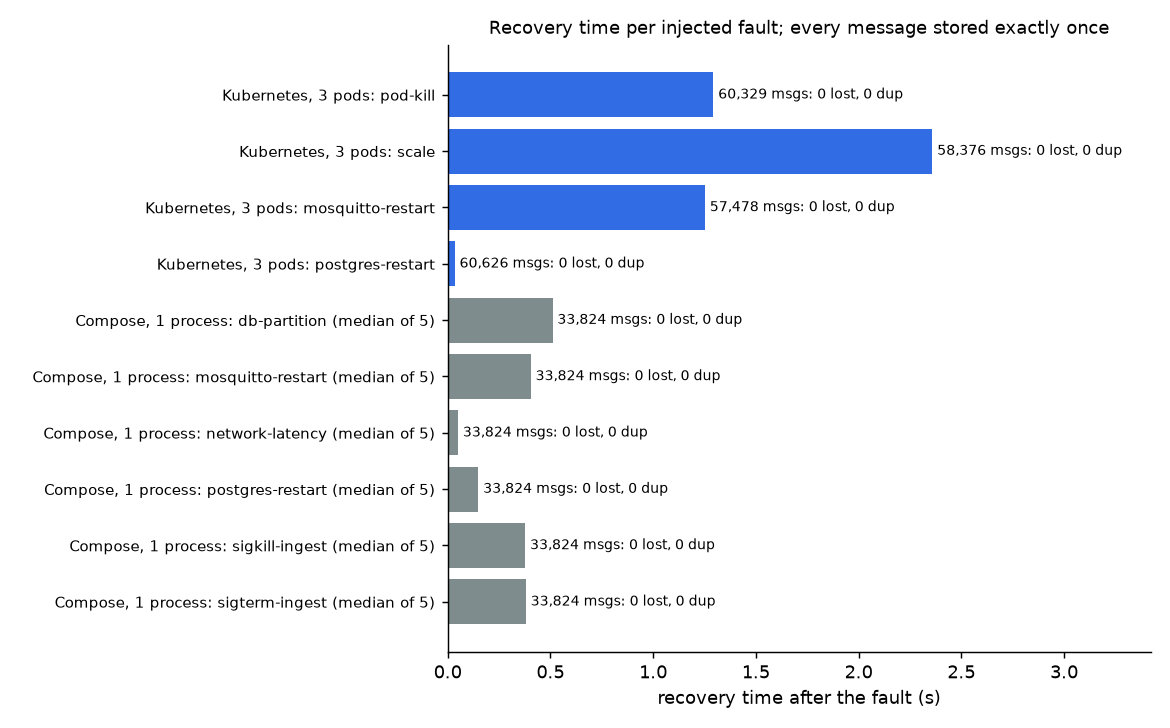
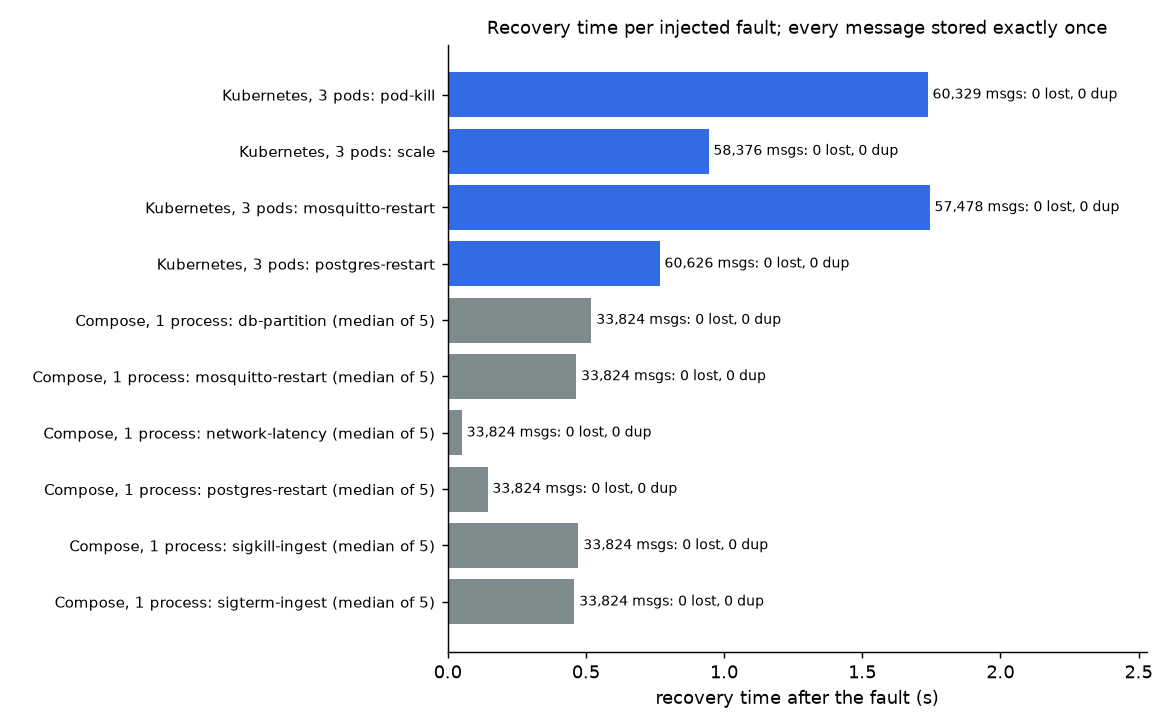
Generate the README and resilience results from the chaos reports after each suite run

diff --git a/test/chaos/globalSetup.ts b/test/chaos/globalSetup.ts
@@ -1,3 +1,4 @@
+import { spawnSync } from "node:child_process";
 import { ChaosEnv } from "../../src/chaos/runner.js";
 import { loadAllResults, writeSummary } from "../../src/chaos/report.js";
 import { SCENARIOS } from "../../src/chaos/scenarios.js";
@@ -10,6 +11,9 @@ export default async function setup(): Promise<() => Promise<void>> {
   await env.up();
   return async () => {
     log(`results table: ${writeSummary(loadAllResults(), SCENARIOS.map((s) => s.name))}`);
+    // Copy the new table into docs/RESILIENCE.md and redraw the figure (best effort).
+    const sync = spawnSync("python3", ["scripts/sync-results.py"], { stdio: "inherit" });
+    if (sync.status !== 0) log("could not sync docs/RESILIENCE.md with the results");
     if (process.env.CHAOS_KEEP === "1") log("CHAOS_KEEP=1: leaving the environment running");
     else await env.down();
   };

diff --git a/scripts/sync-results.py b/scripts/sync-results.py
@@ -1,0 +1,124 @@
+#!/usr/bin/env python3
+"""Copy the measured chaos results into the docs so they always match the committed reports.
+
+- README.md: the k3d results block (between the k8s-chaos markers) and the recovery range in the
+  "Results in detail" row are rebuilt from reports/k8s-chaos.json; the headline recovery bound of
+  the fault-injection suite is rebuilt from results/chaos/*.json.
+- docs/RESILIENCE.md: the tables between the chaos-summary markers are replaced by
+  results/chaos/summary.md.
+- docs/chaos-recovery.png is redrawn when matplotlib is installed.
+
+scripts/k8s-e2e.sh and the fault-injection suite run this after writing their reports.
+
+    python3 scripts/sync-results.py
+"""
+import glob
+import json
+import math
+import os
+import re
+import subprocess
+import sys
+
+ROOT = os.path.join(os.path.dirname(os.path.abspath(__file__)), "..")
+README = os.path.join(ROOT, "README.md")
+RESILIENCE = os.path.join(ROOT, "docs", "RESILIENCE.md")
+
+
+def read(path):
+    with open(path) as f:
+        return f.read()
+
+
+def write_if_changed(path, old, new):
+    if new != old:
+        with open(path, "w") as f:
+            f.write(new)
+        print(f"updated {os.path.relpath(path, ROOT)}")
+
+
+def replace_block(text, name, body):
+    pattern = re.compile(rf"(<!-- {name}:start[^>]*-->\n)(.*?)(<!-- {name}:end -->)", re.S)
+    if not pattern.search(text):
+        sys.exit(f"marker block {name} not found")
+    return pattern.sub(lambda m: m.group(1) + body + m.group(3), text, count=1)
+
+
+def seconds(ms):
+    s = ms / 1000
+    return f"{s:.2f} s" if s < 0.1 else f"{s:.1f} s"
+
+
+def k8s_block(r):
+    c = r["config"]
+    lines = [
+        f"Measured with `--{r.get('mode', 'quick')}` ({c['replicas']} replicas, {c['partitions']} partitions, "
+        f"{c['devices']} vehicles, {c['rate']} msg/s, seed {c['seed']}; the whole",
+        f"script took {r['wallClockS']} s including cluster creation, inside a 3 GB node limit):",
+        "",
+        "| Scenario | Sent | Distinct | Stored | Lost | Duplicated | Recovery |",
+        "| --- | ---: | ---: | ---: | ---: | ---: | ---: |",
+    ]
+    labels = {"pod-kill": None, "scale": None}
+    for s in r["scenarios"]:
+        name = f"`{s['scenario']}`"
+        if s["scenario"] == "pod-kill":
+            name += f" ({sum(a.startswith('killed') for a in s['actions'])} kills)"
+        elif s["scenario"] == "scale":
+            targets = [re.search(r"scaled to (\d+)", a).group(1) for a in s["actions"] if a.startswith("scaled to")]
+            name += " " + " → ".join([str(c["replicas"])] + targets)
+        lines.append(
+            f"| {name} | {s['sent']:,} | {s['sentDistinct']:,} | {s['stored']:,} | {s['lost']} | "
+            f"{s['duplicated']} | {seconds(s['recoveryMs'])} |")
+    t = r["totals"]
+    distinct = sum(s["sentDistinct"] for s in r["scenarios"])
+    lines.append(f"| **total** | {t['sent']:,} | {distinct:,} | {t['stored']:,} | {t['lost']} | {t['duplicated']} | |")
+    p = r.get("prometheus") or {}
+    lines += [
+        "",
+        "The message counts are fixed by the seed; recovery times vary from run to run.",
+        "\"Sent\" includes the simulator's deliberate duplicates. Prometheus had an `up` target for "
+        f"{p.get('targetsUp')} of {p.get('ingestPods')}",
+        f"ingest pods with all {len(p.get('alertRules', []))} alert rules loaded, and reported a p95 "
+        f"publish-to-commit latency of {p.get('p95PublishToCommitSeconds', 0):.1f} s",
+        "over the run (the chaos replay publishes faster than real time and pauses during faults).",
+        "",
+    ]
+    return "\n".join(lines)
+
+
+def main():
+    readme = read(README)
+    new = readme
+    k8s_path = os.path.join(ROOT, "reports", "k8s-chaos.json")
+    if os.path.exists(k8s_path):
+        r = json.loads(read(k8s_path))
+        new = replace_block(new, "k8s-chaos", k8s_block(r))
+        rec = [s["recoveryMs"] for s in r["scenarios"]]
+        rng = f"recovery {seconds(min(rec)).removesuffix(' s')}–{seconds(max(rec))} per scenario"
+        new = re.sub(r"recovery [0-9.]+–[0-9.]+ s per scenario", rng, new, count=1)
+    runs = [run for f in sorted(glob.glob(os.path.join(ROOT, "results", "chaos", "*.json")))
+            for run in json.loads(read(f))]
+    if runs:
+        bound = math.ceil(max(run["recoveryMs"] for run in runs) / 100) / 10
+        new = re.sub(r"recovery within [0-9.]+ s", f"recovery within {bound:.1f} s", new, count=1)
+    write_if_changed(README, readme, new)
+
+    summary_path = os.path.join(ROOT, "results", "chaos", "summary.md")
+    if os.path.exists(summary_path):
+        resilience = read(RESILIENCE)
+        summary = read(summary_path).rstrip("\n") + "\n"
+        if "| – |" in summary:
+            summary += '\n"–" means the catch-up point was not captured by the 50 ms sampler in that run.\n'
+        write_if_changed(RESILIENCE, resilience, replace_block(resilience, "chaos-summary", summary))
+
+    try:
+        import matplotlib  # noqa: F401
+    except ImportError:
+        print("matplotlib not installed; docs/chaos-recovery.png not redrawn")
+        return
+    subprocess.run([sys.executable, os.path.join(ROOT, "scripts", "plot-results.py")], check=True)
+
+
+if __name__ == "__main__":
+    main()

diff --git a/docs/RESILIENCE.md b/docs/RESILIENCE.md
@@ -87,68 +87,68 @@ regenerates on every run.
 **All 30 runs passed: 0 lost messages, 0 duplicate rows, and all 24 trips per seed identical to
 the fault-free run, together with their idle segments and late flags.**
 
+<!-- chaos-summary:start (generated by scripts/sync-results.py from results/chaos/summary.md) -->
 | Scenario | Runs | Passed | Lost | Duplicate rows | Trips identical | Median recovery s | Max recovery s | Median catch-up s | Max peak queue |
 | --- | ---: | ---: | ---: | ---: | --- | ---: | ---: | ---: | ---: |
-| sigkill-ingest | 5 | 5 | 0 | 0 | all | 0.38 | 0.43 | 0.54 | 2000 |
-| sigterm-ingest | 5 | 5 | 0 | 0 | all | 0.38 | 0.41 | 0.43 | 2000 |
-| mosquitto-restart | 5 | 5 | 0 | 0 | all | 0.40 | 0.50 | 0.40 | 1378 |
-| postgres-restart | 5 | 5 | 0 | 0 | all | 0.15 | 0.15 | 0.61 | 2000 |
-| network-latency | 5 | 5 | 0 | 0 | all | 0.05 | 0.07 | 0.29 | 2000 |
-| db-partition | 5 | 5 | 0 | 0 | all | 0.51 | 0.54 | 0.72 | 2036 |
+| sigkill-ingest | 5 | 5 | 0 | 0 | all | 0.47 | 0.52 | 0.68 | 2000 |
+| sigterm-ingest | 5 | 5 | 0 | 0 | all | 0.46 | 0.49 | 0.51 | 2000 |
+| mosquitto-restart | 5 | 5 | 0 | 0 | all | 0.47 | 0.51 | 0.47 | 1404 |
+| postgres-restart | 5 | 5 | 0 | 0 | all | 0.14 | 0.15 | 0.70 | 2000 |
+| network-latency | 5 | 5 | 0 | 0 | all | 0.05 | 0.07 | 0.32 | 2000 |
+| db-partition | 5 | 5 | 0 | 0 | all | 0.52 | 0.54 | 0.75 | 2032 |
 
 | Scenario | Seed | Messages delivered | Unique | Lost | Duplicate rows | Trips (match fault-free) | Downtime s | Recovery s | Catch-up s | Peak queue | Paused | Failed batches | Result |
 | --- | ---: | ---: | ---: | ---: | ---: | --- | ---: | ---: | ---: | ---: | --- | ---: | --- |
-| sigkill-ingest | 1 | 7338 | 7007 | 0 | 0 | 24 (yes) | 2.28 | 0.39 | 0.54 | 2000 / 2000 | yes | 0 | pass |
-| sigkill-ingest | 2 | 7128 | 6774 | 0 | 0 | 24 (yes) | 2.29 | 0.37 | 0.52 | 2000 / 2000 | yes | 0 | pass |
-| sigkill-ingest | 3 | 7284 | 6941 | 0 | 0 | 24 (yes) | 2.26 | 0.36 | 0.51 | 2000 / 2000 | yes | 0 | pass |
-| sigkill-ingest | 4 | 7440 | 7103 | 0 | 0 | 24 (yes) | 2.26 | 0.38 | 0.58 | 2000 / 2000 | yes | 0 | pass |
-| sigkill-ingest | 5 | 6313 | 5999 | 0 | 0 | 24 (yes) | 2.27 | 0.43 | 0.59 | 2000 / 2000 | yes | 0 | pass |
-| sigterm-ingest | 1 | 7338 | 7007 | 0 | 0 | 24 (yes) | 1.38 | 0.37 | 0.42 | 1568 / 2000 | no | 0 | pass |
-| sigterm-ingest | 2 | 7128 | 6774 | 0 | 0 | 24 (yes) | 1.41 | 0.38 | 0.43 | 2000 / 2000 | yes | 0 | pass |
-| sigterm-ingest | 3 | 7284 | 6941 | 0 | 0 | 24 (yes) | 1.44 | 0.37 | 0.42 | 2000 / 2000 | yes | 0 | pass |
-| sigterm-ingest | 4 | 7440 | 7103 | 0 | 0 | 24 (yes) | 1.44 | 0.38 | 0.43 | 2000 / 2000 | yes | 0 | pass |
-| sigterm-ingest | 5 | 6313 | 5999 | 0 | 0 | 24 (yes) | 1.39 | 0.41 | 0.46 | 2000 / 2000 | yes | 0 | pass |
-| mosquitto-restart | 1 | 7338 | 7007 | 0 | 0 | 24 (yes) | 0.67 | 0.44 | 0.44 | 1378 / 2000 | no | 0 | pass |
-| mosquitto-restart | 2 | 7128 | 6774 | 0 | 0 | 24 (yes) | 0.68 | 0.38 | 0.38 | 832 / 2000 | no | 0 | pass |
-| mosquitto-restart | 3 | 7284 | 6941 | 0 | 0 | 24 (yes) | 0.66 | 0.40 | 0.40 | 1358 / 2000 | no | 0 | pass |
-| mosquitto-restart | 4 | 7440 | 7103 | 0 | 0 | 24 (yes) | 0.66 | 0.50 | 0.50 | 1345 / 2000 | no | 0 | pass |
-| mosquitto-restart | 5 | 6313 | 5999 | 0 | 0 | 24 (yes) | 0.68 | 0.40 | 0.40 | 1353 / 2000 | no | 0 | pass |
-| postgres-restart | 1 | 7338 | 7007 | 0 | 0 | 24 (yes) | 2.11 | 0.14 | 1.27 | 2000 / 2000 | yes | 4 | pass |
-| postgres-restart | 2 | 7128 | 6774 | 0 | 0 | 24 (yes) | 1.18 | 0.13 | 0.54 | 2000 / 2000 | yes | 3 | pass |
-| postgres-restart | 3 | 7284 | 6941 | 0 | 0 | 24 (yes) | 1.13 | 0.15 | 0.61 | 2000 / 2000 | yes | 3 | pass |
-| postgres-restart | 4 | 7440 | 7103 | 0 | 0 | 24 (yes) | 1.20 | 0.15 | 0.56 | 2000 / 2000 | yes | 3 | pass |
-| postgres-restart | 5 | 6313 | 5999 | 0 | 0 | 24 (yes) | 1.14 | 0.15 | 0.61 | 2000 / 2000 | yes | 3 | pass |
-| network-latency | 1 | 7338 | 7007 | 0 | 0 | 24 (yes) | 5.02 | 0.04 | 0.29 | 2000 / 2000 | yes | 0 | pass |
-| network-latency | 2 | 7128 | 6774 | 0 | 0 | 24 (yes) | 5.01 | 0.07 | 0.28 | 2000 / 2000 | yes | 0 | pass |
-| network-latency | 3 | 7284 | 6941 | 0 | 0 | 24 (yes) | 5.01 | 0.04 | 0.30 | 2000 / 2000 | yes | 0 | pass |
-| network-latency | 4 | 7440 | 7103 | 0 | 0 | 24 (yes) | 5.01 | 0.05 | 0.30 | 2000 / 2000 | yes | 0 | pass |
-| network-latency | 5 | 6313 | 5999 | 0 | 0 | 24 (yes) | 5.01 | 0.07 | – | 2000 / 2000 | yes | 0 | pass |
-| db-partition | 1 | 7338 | 7007 | 0 | 0 | 24 (yes) | 6.00 | 0.52 | 0.78 | 2021 / 2000 | yes | 2 | pass |
-| db-partition | 2 | 7128 | 6774 | 0 | 0 | 24 (yes) | 6.00 | 0.51 | 0.71 | 2021 / 2000 | yes | 2 | pass |
-| db-partition | 3 | 7284 | 6941 | 0 | 0 | 24 (yes) | 6.00 | 0.54 | 0.74 | 2030 / 2000 | yes | 2 | pass |
-| db-partition | 4 | 7440 | 7103 | 0 | 0 | 24 (yes) | 6.01 | 0.51 | – | 2031 / 2000 | yes | 2 | pass |
-| db-partition | 5 | 6313 | 5999 | 0 | 0 | 24 (yes) | 6.01 | 0.47 | 0.72 | 2036 / 2000 | yes | 2 | pass |
-
-"–" means the catch-up point was not captured by the 50 ms sampler in that run.
+| sigkill-ingest | 1 | 7338 | 7007 | 0 | 0 | 24 (yes) | 2.21 | 0.49 | 0.74 | 2000 / 2000 | yes | 0 | pass |
+| sigkill-ingest | 2 | 7128 | 6774 | 0 | 0 | 24 (yes) | 2.22 | 0.52 | 0.83 | 2000 / 2000 | yes | 0 | pass |
+| sigkill-ingest | 3 | 7284 | 6941 | 0 | 0 | 24 (yes) | 2.22 | 0.46 | 0.67 | 2000 / 2000 | yes | 0 | pass |
+| sigkill-ingest | 4 | 7440 | 7103 | 0 | 0 | 24 (yes) | 2.17 | 0.47 | 0.68 | 2000 / 2000 | yes | 0 | pass |
+| sigkill-ingest | 5 | 6313 | 5999 | 0 | 0 | 24 (yes) | 2.21 | 0.40 | 0.56 | 2000 / 2000 | yes | 0 | pass |
+| sigterm-ingest | 1 | 7338 | 7007 | 0 | 0 | 24 (yes) | 1.33 | 0.49 | 0.54 | 2000 / 2000 | yes | 0 | pass |
+| sigterm-ingest | 2 | 7128 | 6774 | 0 | 0 | 24 (yes) | 1.34 | 0.46 | 0.51 | 2000 / 2000 | yes | 0 | pass |
+| sigterm-ingest | 3 | 7284 | 6941 | 0 | 0 | 24 (yes) | 1.34 | 0.49 | 0.54 | 1657 / 2000 | no | 0 | pass |
+| sigterm-ingest | 4 | 7440 | 7103 | 0 | 0 | 24 (yes) | 1.45 | 0.42 | 0.47 | 2000 / 2000 | yes | 0 | pass |
+| sigterm-ingest | 5 | 6313 | 5999 | 0 | 0 | 24 (yes) | 1.43 | 0.40 | 0.45 | 2000 / 2000 | yes | 0 | pass |
+| mosquitto-restart | 1 | 7338 | 7007 | 0 | 0 | 24 (yes) | 0.64 | 0.47 | 0.47 | 1371 / 2000 | no | 0 | pass |
+| mosquitto-restart | 2 | 7128 | 6774 | 0 | 0 | 24 (yes) | 0.73 | 0.37 | 0.37 | 1404 / 2000 | no | 0 | pass |
+| mosquitto-restart | 3 | 7284 | 6941 | 0 | 0 | 24 (yes) | 0.63 | 0.47 | 0.47 | 1331 / 2000 | no | 0 | pass |
+| mosquitto-restart | 4 | 7440 | 7103 | 0 | 0 | 24 (yes) | 0.63 | 0.51 | 0.51 | 1344 / 2000 | no | 0 | pass |
+| mosquitto-restart | 5 | 6313 | 5999 | 0 | 0 | 24 (yes) | 0.65 | 0.42 | 0.42 | 1353 / 2000 | no | 0 | pass |
+| postgres-restart | 1 | 7338 | 7007 | 0 | 0 | 24 (yes) | 2.11 | 0.14 | 1.35 | 2000 / 2000 | yes | 4 | pass |
+| postgres-restart | 2 | 7128 | 6774 | 0 | 0 | 24 (yes) | 1.09 | 0.14 | 0.70 | 2000 / 2000 | yes | 3 | pass |
+| postgres-restart | 3 | 7284 | 6941 | 0 | 0 | 24 (yes) | 1.08 | 0.15 | 0.71 | 2000 / 2000 | yes | 3 | pass |
+| postgres-restart | 4 | 7440 | 7103 | 0 | 0 | 24 (yes) | 1.13 | 0.14 | 0.60 | 2000 / 2000 | yes | 3 | pass |
+| postgres-restart | 5 | 6313 | 5999 | 0 | 0 | 24 (yes) | 1.09 | 0.13 | 0.70 | 2000 / 2000 | yes | 3 | pass |
+| network-latency | 1 | 7338 | 7007 | 0 | 0 | 24 (yes) | 5.01 | 0.07 | 0.32 | 2000 / 2000 | yes | 0 | pass |
+| network-latency | 2 | 7128 | 6774 | 0 | 0 | 24 (yes) | 5.02 | 0.05 | 0.36 | 2000 / 2000 | yes | 0 | pass |
+| network-latency | 3 | 7284 | 6941 | 0 | 0 | 24 (yes) | 5.00 | 0.07 | 0.32 | 2000 / 2000 | yes | 0 | pass |
+| network-latency | 4 | 7440 | 7103 | 0 | 0 | 24 (yes) | 5.00 | 0.03 | 0.29 | 2000 / 2000 | yes | 0 | pass |
+| network-latency | 5 | 6313 | 5999 | 0 | 0 | 24 (yes) | 5.00 | 0.01 | 0.27 | 2000 / 2000 | yes | 0 | pass |
+| db-partition | 1 | 7338 | 7007 | 0 | 0 | 24 (yes) | 6.01 | 0.52 | 0.78 | 2021 / 2000 | yes | 2 | pass |
+| db-partition | 2 | 7128 | 6774 | 0 | 0 | 24 (yes) | 6.01 | 0.52 | 0.78 | 2028 / 2000 | yes | 2 | pass |
+| db-partition | 3 | 7284 | 6941 | 0 | 0 | 24 (yes) | 6.01 | 0.54 | 0.74 | 2027 / 2000 | yes | 2 | pass |
+| db-partition | 4 | 7440 | 7103 | 0 | 0 | 24 (yes) | 6.00 | 0.53 | 0.73 | 2021 / 2000 | yes | 2 | pass |
+| db-partition | 5 | 6313 | 5999 | 0 | 0 | 24 (yes) | 6.01 | 0.49 | 0.75 | 2032 / 2000 | yes | 2 | pass |
+<!-- chaos-summary:end -->
 
 ## Reading the results
 
-- **SIGKILL.** At the kill, 8–33 messages were queued in memory and a batch was usually in flight.
+- **SIGKILL.** At the kill, a few dozen messages at most were queued in memory and a batch was usually in flight.
   None of them had been acknowledged, so the broker redelivered them to the restarted service.
-  About 250–290 redelivered or simulator-duplicated copies per run were discarded by the primary
+  A few hundred redelivered or simulator-duplicated copies per run were discarded by the primary
   key. The restarted service rebuilt every reorder buffer from the stored points and the persisted
   cursor, so stragglers that arrived after the restart were slotted in exactly as in the
-  fault-free run. Recovery (0.36–0.43 s after `docker start` returned) is the time the service
+  fault-free run. Recovery (measured from when `docker start` returned; see the table) is the time the service
   needed to start: connect, migrate, replay devices and subscribe. The backlog then fills the
   2,000-message queue and the consumer pauses until it drains.
 - **SIGTERM.** Every graceful stop exited with status 0 after committing and acknowledging its
   queue. The reorder buffers are deliberately not flushed on shutdown, so the result is the same
   as never stopping.
-- **Mosquitto restart.** The broker was unavailable for about 0.65–0.7 s. Its persistence file kept the
+- **Mosquitto restart.** The broker was unavailable for under a second (the downtime column). Its persistence file kept the
   service's session and queued messages. The publisher resent its unacknowledged publishes, and
   the service reconnected with backoff and resumed its session. No batch failed.
-- **PostgreSQL restart.** The database refused connections for 1.1–2.1 s. The service saw 3–4
-  failed batches, rebuilt the 8 affected devices from the database before each retry, and kept
+- **PostgreSQL restart.** The database refused connections for one to two seconds. The service saw a handful of
+  failed batches (the failed-batches column), rebuilt the 8 affected devices from the database before each retry, and kept
   the retry backoff while new messages arrived. An earlier version of the suite caught two bugs
   here. First, an error emitted by a checked-out pg client during the shutdown crashed the
   process. Second, batch triggers queued during a slow failing transaction ran back to back,
@@ -156,8 +156,8 @@ the fault-free run, together with their idle segments and late flags.**
 - **Network latency.** With 250 ± 100 ms on the database link, batch commits slowed down enough
   to fill the queue. The consumer paused and resumed, and nothing failed.
 - **Database partition.** With bytes silently dropped for 6 s, queries hit the 2 s timeout and
-  hung connections were destroyed. Recovery after the heal (about 0.5 s) is dominated by the retry
-  backoff, which had grown to 2 s. The queue peaks slightly above its bound (2,021–2,036) because
+  hung connections were destroyed. Recovery after the heal (about half a second) is dominated by the retry
+  backoff, which had grown to 2 s. The queue peaks slightly above its bound of 2,000 because
   MQTT messages already parsed from the current TCP read are still handed over after the pause
   begins.
 

diff --git a/README.md b/README.md
@@ -65,7 +65,7 @@ Measured numbers are in [PERFORMANCE.md](PERFORMANCE.md) (throughput, latency, a
 
 | Check (committed test or script) | Faults | Messages (distinct) | Lost | Duplicated | Result |
 | --- | --- | ---: | ---: | ---: | --- |
-| `scripts/k8s-e2e.sh --quick` (k3d, 3 replicas, 16 partitions, 200 devices, [reports/k8s-chaos.json](reports/k8s-chaos.json)) | pod kill every 4 s, scale 3→1→3→2, Mosquitto restart, Postgres restart | 236,809 | 0 | 0 | recovery 0.03–2.4 s per scenario; Prometheus scraped 3/3 pods |
+| `scripts/k8s-e2e.sh --quick` (k3d, 3 replicas, 16 partitions, 200 devices, [reports/k8s-chaos.json](reports/k8s-chaos.json)) | pod kill every 4 s, scale 3→1→3→2, Mosquitto restart, Postgres restart | 236,809 | 0 | 0 | recovery 0.8–1.7 s per scenario; Prometheus scraped 3/3 pods |
 | `test/cluster.integration.test.ts` (5 in-process pods, 8 partitions, [results/cluster-chaos.json](results/cluster-chaos.json)) | scale 1→3, kill + restart, kill without restart, graceful stop, scale 1→2 | 13,463 | 0 | 0 | trips identical to one uninterrupted ingestor; every handoff < 1 s |
 | `npm run test:chaos` (Docker Compose + Toxiproxy, [docs/RESILIENCE.md](docs/RESILIENCE.md)) | SIGKILL, SIGTERM, broker restart, DB restart, latency, DB partition × 5 seeds | ~7,000 per run | 0 | 0 | 30/30 runs pass, trips identical to a fault-free run |
 | `deploy/prometheus/rules.test.yaml` (promtool) | p95 latency, consumer lag, error ratio, unowned partitions, target down | – | – | – | every alert fires and stays quiet as specified |
@@ -124,7 +124,7 @@ Source layout:
 | `deploy/prometheus/`, `deploy/grafana/` | Alert rules with promtool tests, Grafana dashboard |
 | `scripts/k8s-e2e.sh` | k3d chaos suite |
 | `src/chaos/` | Fault-injection harness: Docker and Toxiproxy control, scenarios, runner, invariant checker, results report |
-| `scripts/` | `simulate.ts`, `mqtt-load.ts`, `accuracy.ts`, `chaos-matrix.ts`, `plot-results.py` (README figure), `check-grafana.sh`, `k8s-e2e.sh` (Python packages in `requirements-docs.txt`) |
+| `scripts/` | `simulate.ts`, `mqtt-load.ts`, `accuracy.ts`, `chaos-matrix.ts`, `plot-results.py` (README figure), `sync-results.py` (copies the chaos reports into the README and docs/RESILIENCE.md; run by both chaos suites), `check-grafana.sh`, `k8s-e2e.sh` (Python packages in `requirements-docs.txt`) |
 | `load/k6-api.js` | k6 API load test |
 | `web/` | React + Vite page |
 | `test/` | Vitest unit and integration tests |
@@ -275,21 +275,23 @@ writes `reports/k8s-chaos.json` (sent, stored, lost and duplicated counts plus r
 scenario) and exits non-zero on any loss, duplicate or unscraped pod.
 `.github/workflows/k8s.yml` runs the same script after the static checks and uploads the report.
 
+<!-- k8s-chaos:start (generated by scripts/sync-results.py from reports/k8s-chaos.json) -->
 Measured with `--quick` (3 replicas, 16 partitions, 200 vehicles, 1500 msg/s, seed 7; the whole
-script took 286 s including cluster creation, inside a 3 GB node limit):
+script took 275 s including cluster creation, inside a 3 GB node limit):
 
 | Scenario | Sent | Distinct | Stored | Lost | Duplicated | Recovery |
 | --- | ---: | ---: | ---: | ---: | ---: | ---: |
-| `pod-kill` (3 kills, 4 s apart) | 63,355 | 60,329 | 60,329 | 0 | 0 | 1.3 s |
-| `scale` 3 → 1 → 3 → 2 | 61,387 | 58,376 | 58,376 | 0 | 0 | 2.4 s |
-| `mosquitto-restart` | 60,335 | 57,478 | 57,478 | 0 | 0 | 1.3 s |
-| `postgres-restart` | 63,713 | 60,626 | 60,626 | 0 | 0 | 0.03 s |
+| `pod-kill` (3 kills) | 63,355 | 60,329 | 60,329 | 0 | 0 | 1.7 s |
+| `scale` 3 → 1 → 3 → 2 | 61,387 | 58,376 | 58,376 | 0 | 0 | 0.9 s |
+| `mosquitto-restart` | 60,335 | 57,478 | 57,478 | 0 | 0 | 1.7 s |
+| `postgres-restart` | 63,713 | 60,626 | 60,626 | 0 | 0 | 0.8 s |
 | **total** | 248,790 | 236,809 | 236,809 | 0 | 0 | |
 
-The message counts are fixed by the seed; recovery times vary from run to run (another run of
-the same command measured 0.1–1.7 s). "Sent" includes the simulator's deliberate duplicates. Prometheus had an `up` target for 3 of 3
-ingest pods with all 5 alert rules loaded, and reported a p95 publish-to-commit latency of 1.6 s
+The message counts are fixed by the seed; recovery times vary from run to run.
+"Sent" includes the simulator's deliberate duplicates. Prometheus had an `up` target for 3 of 3
+ingest pods with all 5 alert rules loaded, and reported a p95 publish-to-commit latency of 1.7 s
 over the run (the chaos replay publishes faster than real time and pauses during faults).
+<!-- k8s-chaos:end -->
 
 ## Message format
 
